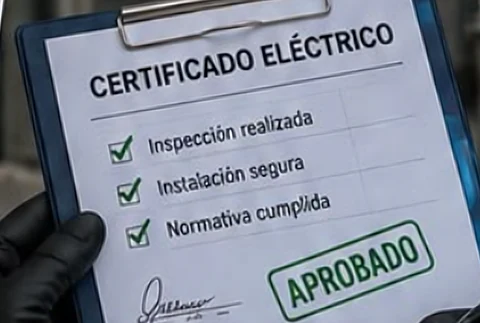
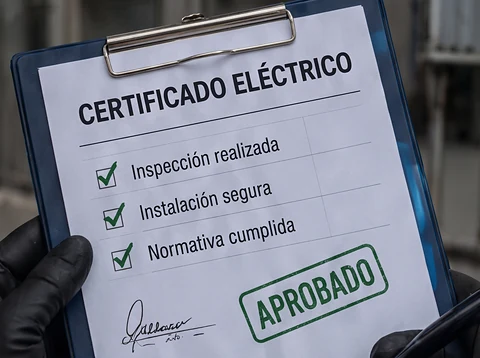
Portada: Detecta = Alarma de alerta temprana; imágenes de servicios actualizadas

diff --git a/frontend/src/components/home/homeStory.ts b/frontend/src/components/home/homeStory.ts
@@ -50,7 +50,7 @@ export const STORY: StoryChapter[] = [
   {
     id: "detecta",
     kicker: "Detecta",
-    title: "Alarmas que avisan antes de que pase algo",
+    title: "Alarma de alerta temprana",
     text: "Paneles de alarma, sensores de movimiento, de puertas y de humo, sirenas y teclados, cableados o inalámbricos.",
     points: ["Aviso inmediato al celular", "Sensores de humo e incendio", "Instalación cableada o inalámbrica"],
     brands: "Ajax · Paradox · Fire-Lite · Mircom",

diff --git a/comunicacion/para-kiro.md b/comunicacion/para-kiro.md
@@ -544,3 +544,9 @@ Estado: PENDIENTE
 - Nuevas imágenes del usuario: cerca eléctrica (antes sin foto), inspección (ahora 1000 px, foto real) y trabajos de altura actualizada.
 - Planos eléctricos se veía con "moiré" (rayas) sin hover: el navegador achicaba una foto de 1500 px con líneas finas. Ahora cada foto existe en `public/servicios/<nombre>-480/800/1200.webp` (achicadas con Lanczos + enfoque suave) y `ServicesPage.tsx` usa `srcSet` + `sizes`; `image` pasó a ser el nombre base y hay un campo `widths`. Borré los .webp viejos de un solo tamaño.
 - CSS `.service-card-media img`: `object-position: center` (antes left), `transform: translateZ(0)` para que se dibuje igual con y sin el zoom del hover.
+
+## [2026-10-28] De: Claude — Portada: título de "Detecta" + imágenes de servicios actualizadas
+Estado: PENDIENTE
+
+- `homeStory.ts`: el capítulo Detecta ahora se titula "Alarma de alerta temprana" (pedido del usuario).
+- Imágenes de servicios regeneradas desde la carpeta del usuario `Imagenes_Servicios/` (nuevas: cerca eléctrica y certificado eléctrico en alta resolución, 2400 px). Mismos nombres `public/servicios/<nombre>-480/800/1200.webp`.
